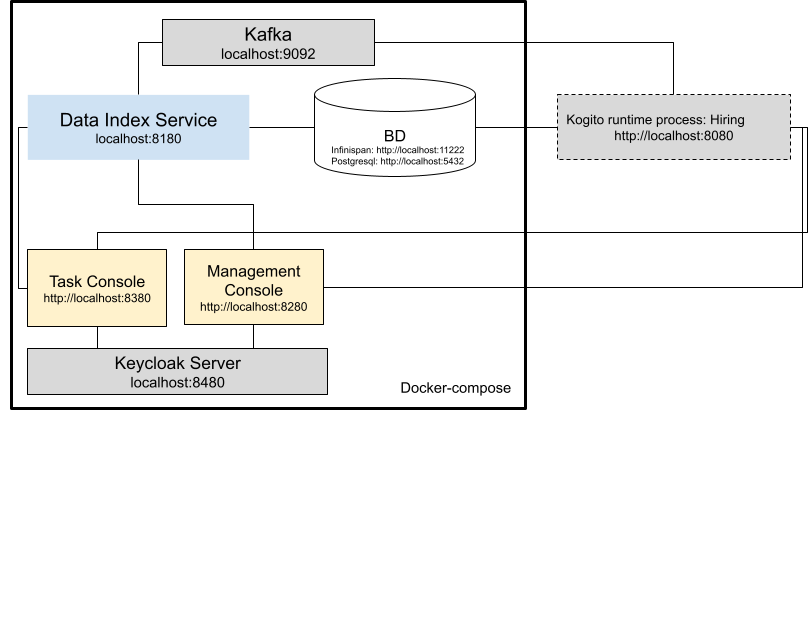
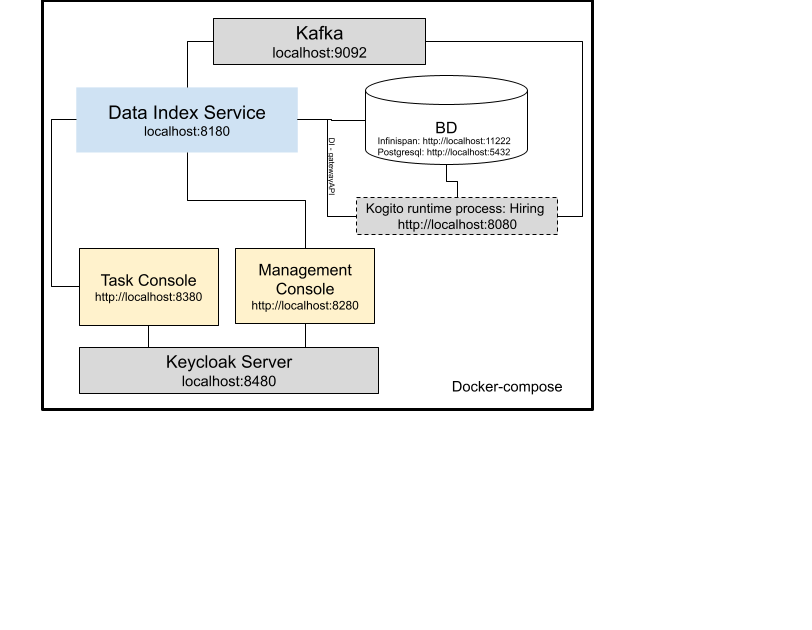
Include runtime service inside docker-compose to see DI gatewayAPI working

Changed region(s): [[0.0, 0.0, 1.0, 0.6635], [0.2155, 0.3016, 0.3079, 0.3317], [0.6466, 0.4524, 0.6773, 0.4825]]

diff --git a/kogito-quarkus-examples/process-usertasks-quarkus-with-console/README.md b/kogito-quarkus-examples/process-usertasks-quarkus-with-console/README.md
@@ -109,7 +109,7 @@ For Linux and MacOS:
 - Open a Terminal
 - Go to the example folder and run
 ```sh
-mvn clean install -Ppostgresql
+mvn clean install -Ppostgresql,container
 ```
 
 #### Start infrastructure services
@@ -141,8 +141,9 @@ Once all services bootstrap, the following ports will be assigned on your local 
 - Task Console: 8380
 - Keycloak: 8480
 - PgAdmin: 8055
+- example-runtime-service: 8080
 
-> **_NOTE:_**  This step requires the project to be compiled, please consider running a ```mvn clean install``` command on the project root before running the ```startServices.sh``` script for the first time or any time you modify the project.
+> **_NOTE:_**  This step requires the project to be compiled, please consider running a ```mvn clean install -Ppostgresql,container``` command on the project root before running the ```startServices.sh``` script for the first time or any time you modify the project.
 
 Once started you can simply stop all services by executing the ```docker-compose -f docker-compose-postgresql.yml stop```.
 
@@ -202,7 +203,7 @@ For Linux and MacOS:
 1. Open a Terminal
 2. Go to the example folder and run
 ```sh
-mvn clean install -Pinfinispan
+mvn clean install -Pinfinispan,container
 ```
 #### Start infrastructure services
 
@@ -226,8 +227,9 @@ Once all services bootstrap, the following ports will be assigned on your local 
 - Management Console: 8280
 - Task Console: 8380
 - Keycloak: 8480
+- example-runtime-service: 8080
 
-> **_NOTE:_**  This step requires the project to be compiled, please consider running a ```mvn clean install -Pinfinispan``` command on the project root before running the ```startServices.sh infinispan``` script for the first time or any time you modify the project.
+> **_NOTE:_**  This step requires the project to be compiled, please consider running a ```mvn clean install -Pinfinispan,container``` command on the project root before running the ```startServices.sh infinispan``` script for the first time or any time you modify the project.
 
 Once started you can simply stop all services by executing the ```docker-compose -f docker-compose-infinispan.yml stop```.
 

diff --git a/kogito-quarkus-examples/process-usertasks-with-security-oidc-quarkus-with-console/README.md b/kogito-quarkus-examples/process-usertasks-with-security-oidc-quarkus-with-console/README.md
@@ -61,8 +61,9 @@ Once all services bootstrap, the following ports will be assigned on your local 
 - Management Console: 8280
 - Task Console: 8380
 - Keycloak server: 8480
+- example-runtime-service: 8080
 
-> **_NOTE:_**  This step requires the project to be compiled, please consider running a ```mvn clean install``` command on the project root before running the ```startServices.sh``` script for the first time or any time you modify the project.
+> **_NOTE:_**  This step requires the project to be compiled, please consider running a ```mvn clean install -Pcontainer``` command on the project root before running the ```startServices.sh``` script for the first time or any time you modify the project.
 
 Once started you can simply stop all services by executing the ```docker-compose stop```.
 

diff --git a/serverless-workflow-examples/serverless-workflow-callback-quarkus/README.md b/serverless-workflow-examples/serverless-workflow-callback-quarkus/README.md
@@ -74,7 +74,7 @@ mvn clean package quarkus:dev
 You should start all the services before you execute any of the **Callback** example, to do that please execute:
 
 ```sh
-mvn clean package -Dquarkus.container-image.build=true
+mvn clean package -Pcontainer
 ```
 
 For Linux and MacOS:
